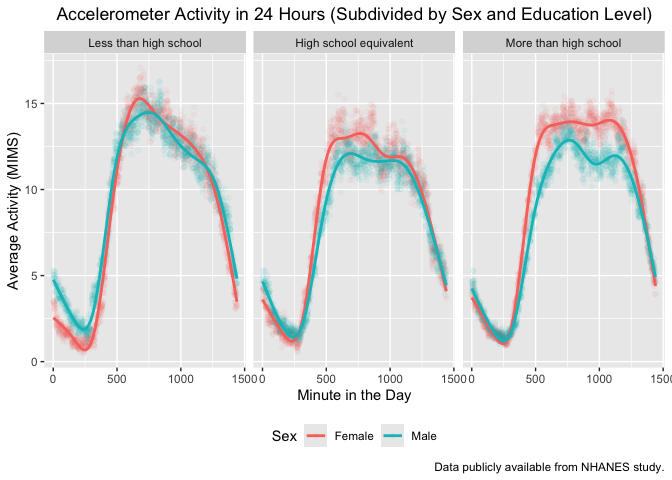
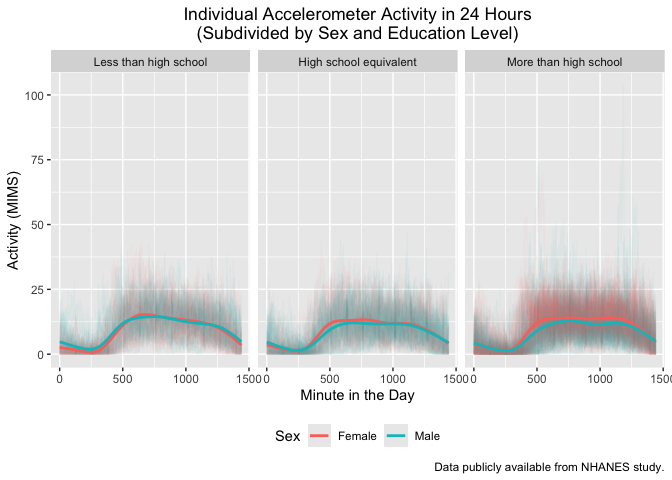
Made a last-minute modification per TA feedback. Final commit and push. Thank you! :)

diff --git a/p8105_hw3_daq2107.md b/p8105_hw3_daq2107.md
@@ -487,8 +487,7 @@ observations from the cleaned demographic data:
 
 ``` r
 nhanes_merged = 
-  covar_data %>% #Starting from the cleaned demographic data
-  left_join(accel_data, by = "seqn")
+  left_join(covar_data, accel_data, by = "seqn") #Starting from the cleaned demographic data
 
 # Checking the new data frame:
 
@@ -692,9 +691,14 @@ compared to men.
 ### Activity Throughout the Day
 
 In a similar way to how we created the data frame for total activity, we
-can now group our minutes by each participant to show the differences in
-activity in a single day. We will still make use of *ggplot* to create
-our plot similarly to the last section:
+can now retain each minute’s observations for each participant to show
+the differences in activity in a single day. **I had originally thought
+of plotting the minute activity averages for better visualization, but
+after consulting with one of the course’s TA, I was instructed to keep
+the lines for each participant and just make sure to include the trend
+line, to be aligned with assignment instructions.** Notice the use of
+the the *alpha* argument in *ggplot* to make the individual lines more
+translucent and make the overall trend lines show up more:
 
 ``` r
 daily_act_df =
@@ -705,48 +709,37 @@ daily_act_df =
     names_prefix = "min", # Removing the prefix
     values_to = "MIMS" # Using the naming convention from the instructions and article
   ) %>% 
-  mutate(minute = as.numeric(minute)) %>%  # Converting to numeric
-  group_by(sex, education, minute) %>% # Keeping the variables we need
-  summarize(avg_MIMS = mean(MIMS, na.rm = TRUE)) # Creating average MIMS activity for each minute
-```
+  mutate(minute = as.numeric(minute))
+ 
 
-    ## `summarise()` has regrouped the output.
-    ## ℹ Summaries were computed grouped by sex, education, and minute.
-    ## ℹ Output is grouped by sex and education.
-    ## ℹ Use `summarise(.groups = "drop_last")` to silence this message.
-    ## ℹ Use `summarise(.by = c(sex, education, minute))` for per-operation grouping
-    ##   (`?dplyr::dplyr_by`) instead.
-
-``` r
 # Inspecting the data frame:
 
 head(daily_act_df, 5)
 ```
 
-    ## # A tibble: 5 × 4
-    ## # Groups:   sex, education [1]
-    ##   sex    education             minute avg_MIMS
-    ##   <fct>  <fct>                  <dbl>    <dbl>
-    ## 1 Female Less than high school      1     3.52
-    ## 2 Female Less than high school      2     3.46
-    ## 3 Female Less than high school      3     3.45
-    ## 4 Female Less than high school      4     3.78
-    ## 5 Female Less than high school      5     3.52
+    ## # A tibble: 5 × 7
+    ##    seqn sex     age   bmi education              minute  MIMS
+    ##   <dbl> <fct> <dbl> <dbl> <fct>                   <dbl> <dbl>
+    ## 1 62161 Male     22  23.3 High school equivalent      1 1.11 
+    ## 2 62161 Male     22  23.3 High school equivalent      2 3.12 
+    ## 3 62161 Male     22  23.3 High school equivalent      3 1.47 
+    ## 4 62161 Male     22  23.3 High school equivalent      4 0.938
+    ## 5 62161 Male     22  23.3 High school equivalent      5 1.60
 
 ``` r
 # We can now create our plot in a similar fashion as before:
   
 daily_act_df %>% 
   ggplot(
-    aes(x = minute, y = avg_MIMS, color = sex)) +
-  geom_point(aes(color = sex), alpha = 0.05) + # Grabbed from lecture example
-  geom_smooth(se = FALSE) +
+    aes(x = minute, y = MIMS, color = sex)) +
+  geom_line(aes(color = sex, group = seqn), alpha = 0.04) + #Made individual lines very translucent to observe trend line better
+  geom_smooth(aes(color = sex), se = FALSE) +
   theme(legend.position = "bottom",
-        plot.title = element_text(hjust = 0.5),) + # Centering my title
+        plot.title = element_text(hjust = 0.5)) + # Centering my title
   facet_grid(. ~ education) + 
-  labs(title = "Accelerometer Activity in 24 Hours (Subdivided by Sex and Education Level)", 
+  labs(title = "Individual Accelerometer Activity in 24 Hours\n(Subdivided by Sex and Education Level)", 
        x = "Minute in the Day", 
-       y = "Average Activity (MIMS)",
+       y = "Activity (MIMS)",
        color = "Sex",
        caption = "Data publicly available from NHANES study.")
 ```
@@ -757,19 +750,26 @@ daily_act_df %>%
 
 **Plot Description:** The graphs produced clearly demonstrate a general
 trend: there is slight activity in the first minutes of the day (late
-night), which one may speculate it is due to not having reached deep
-sleep yet or just getting into bed. Then, approximately around the
-minute 400 (corresponding to the 6-7 AM time mark) all groups have a
-drastic increase in activity corresponding to the start of their day.
-This pattern persists irrespective of sex or education level. However,
-we can see that the group with an education level less than high school
-has a higher average MIMS in the first hours of the day compared to the
-other education groups. Moreover, female individuals seem to have
-slightly more activity throughout the day compared to males in all
-education groups. It is also interesting to highlight that those with
-education more than high school have a plateau in their average activity
-for most of the day, potentially due to more sedentary jobs, compared to
-those with less than high school education.
+night) and then a period of slower activity (probably by getting into
+bed or just starting to attempt sleep). In general, though, there is a
+lot of variability in the individual data, as shown by the
+semi-translucent individual activity lines surrounding each trend line.
+Then, approximately around the minute 400 (corresponding to the 6-7 AM
+time mark) all groups have a drastic increase in activity corresponding
+to the start of their day. This pattern persists irrespective of sex or
+education level. However, we can see that the group with an education
+level less than high school has a higher average MIMS in the first hours
+of the day compared to the other education groups. Moreover, female
+individuals seem to have slightly more activity throughout the day
+compared to males, which is more noticeable in the education level
+higher than high school. It is also interesting to highlight that those
+with education more than high school have a more pronounced plateau in
+their average activity for most of the day, potentially due to more
+sedentary jobs that individuals with higher levels of education may have
+compared to those with less than high school education. There are also
+some individual activity lines in this education group that have quite
+steep upticks in activity in the later portions of the day, which is why
+our y-axis scale goes to around 100 MIMS.
 
 ## Problem 3: Citi Bike Data
 
